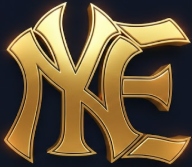
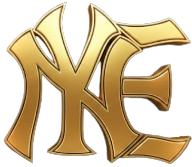
background removed

diff --git a/components/pages/home/Footer.tsx b/components/pages/home/Footer.tsx
@@ -43,7 +43,7 @@ const Footer: React.FC = () => {
 				<div className="grid grid-cols-1 md:grid-cols-2 lg:grid-cols-4 gap-12 mb-16">
 					<div className="space-y-6">
 						<div className="flex items-center gap-2 text-white font-black text-2xl">
-							<img src="/footerimg.png" alt="footer icon" className="w-30" />
+							<img src="/footerimg.png" alt="footer icon" className="w-25" />
 						</div>
 						<p className="text-sm leading-relaxed text-slate-400">
 							From a small workshop in China to a global leader in CNC
